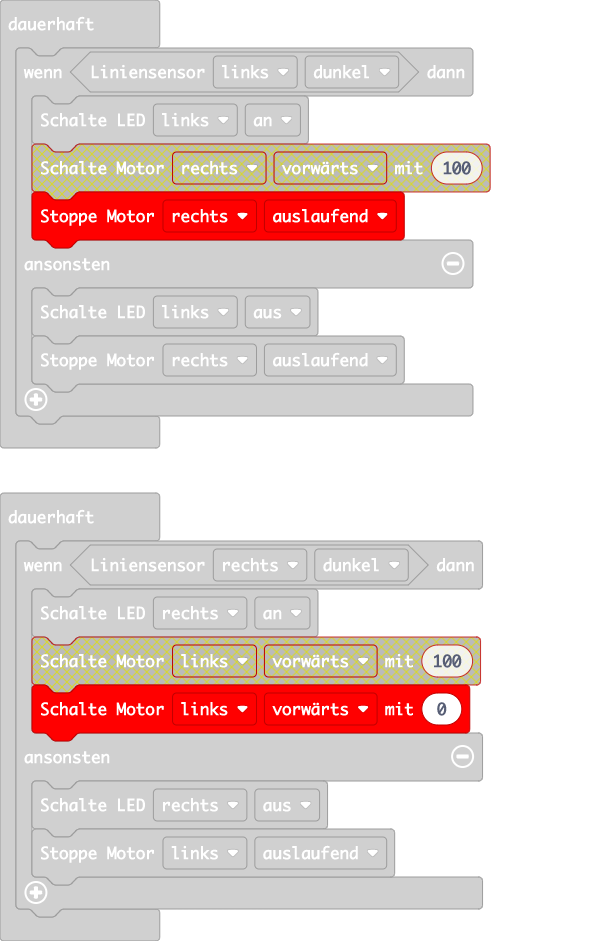
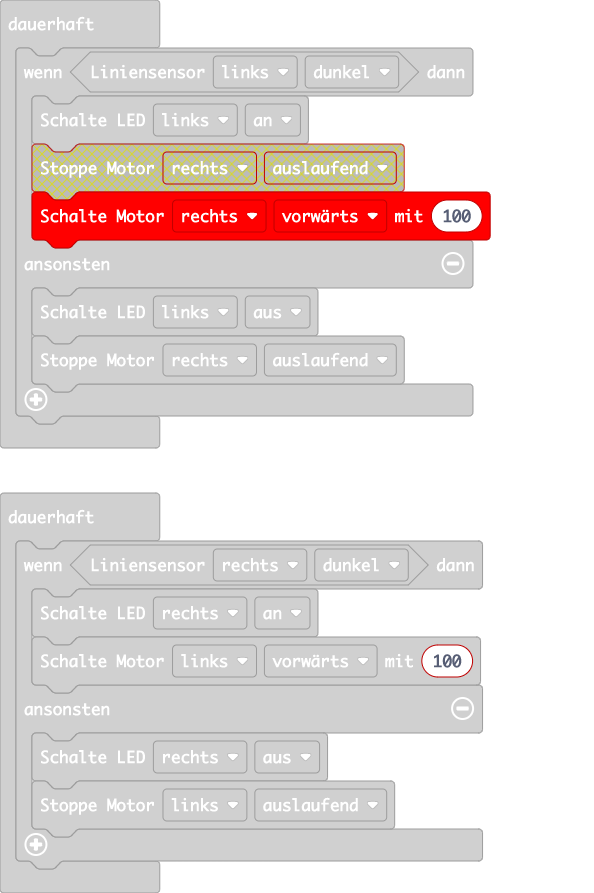
Aktualisiere main.blocks, main.ts

Changed region(s): [[0.0, 0.0302, 0.8485, 0.9675]]

diff --git a/main.ts b/main.ts
@@ -1,7 +1,7 @@
 basic.forever(function () {
     if (callibot.readLineSensor(KSensor.links, KSensorStatus.dunkel)) {
         callibot.setLed(KMotor.links, KState.an)
-        callibot.motorStop(KMotor.rechts, KStop.Frei)
+        callibot.motor(KMotor.rechts, KDir.vorwärts, 100)
     } else {
         callibot.setLed(KMotor.links, KState.aus)
         callibot.motorStop(KMotor.rechts, KStop.Frei)
@@ -10,7 +10,7 @@ basic.forever(function () {
 basic.forever(function () {
     if (callibot.readLineSensor(KSensor.rechts, KSensorStatus.dunkel)) {
         callibot.setLed(KMotor.rechts, KState.an)
-        callibot.motor(KMotor.links, KDir.vorwärts, 0)
+        callibot.motor(KMotor.links, KDir.vorwärts, 100)
     } else {
         callibot.setLed(KMotor.rechts, KState.aus)
         callibot.motorStop(KMotor.links, KStop.Frei)
